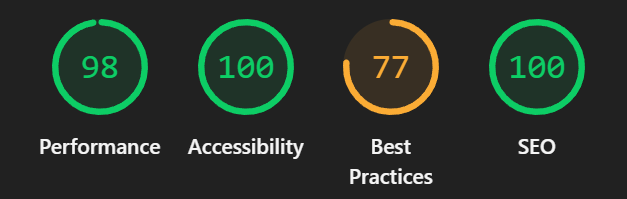
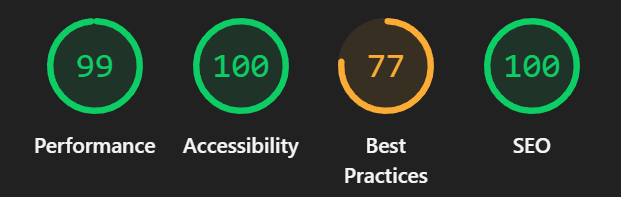
trying to improve performance on mobile

diff --git a/app/(store)/layout.tsx b/app/(store)/layout.tsx
@@ -1,14 +1,16 @@
 import { auth } from "@clerk/nextjs/server";
 import { redirect } from "next/navigation";
 import { db } from "@/app/lib/prisma";
+import dynamic from "next/dynamic";
 import Navbar from "@/app/ui/Navbar";
 import Footer from "@/app/ui/Footer";
 import { CartProvider } from "@/app/ui/cart/CartContext";
-import CartDrawer from "@/app/ui/cart/CartDrawer";
-import PendingCartEffect from "@/app/ui/cart/PendingCartEffect";
 import { FavouritesProvider } from "@/app/ui/favourites/FavouritesContext";
-import PendingFavouriteEffect from "@/app/ui/favourites/PendingFavouriteEffect";
-import FlyingFavourite from "@/app/ui/favourites/FlyingFavourite";
+
+const CartDrawer          = dynamic(() => import("@/app/ui/cart/CartDrawer"),                        { ssr: false });
+const PendingCartEffect   = dynamic(() => import("@/app/ui/cart/PendingCartEffect"),                 { ssr: false });
+const PendingFavouriteEffect = dynamic(() => import("@/app/ui/favourites/PendingFavouriteEffect"),   { ssr: false });
+const FlyingFavourite     = dynamic(() => import("@/app/ui/favourites/FlyingFavourite"),             { ssr: false });
 
 export default async function StoreLayout({ children }: { children: React.ReactNode }) {
   const { userId } = await auth();

diff --git a/app/ui/sections/MorningRitual.tsx b/app/ui/sections/MorningRitual.tsx
@@ -46,6 +46,7 @@ export default function MorningRitual() {
                   alt="Ritual matutino con infusiones"
                   fill
                   priority
+                  quality={70}
                   sizes="(max-width: 768px) calc(100vw - 48px), (max-width: 1024px) calc(100vw - 96px), (max-width: 1400px) 58vw, 800px"
                   className="object-cover"
                 />